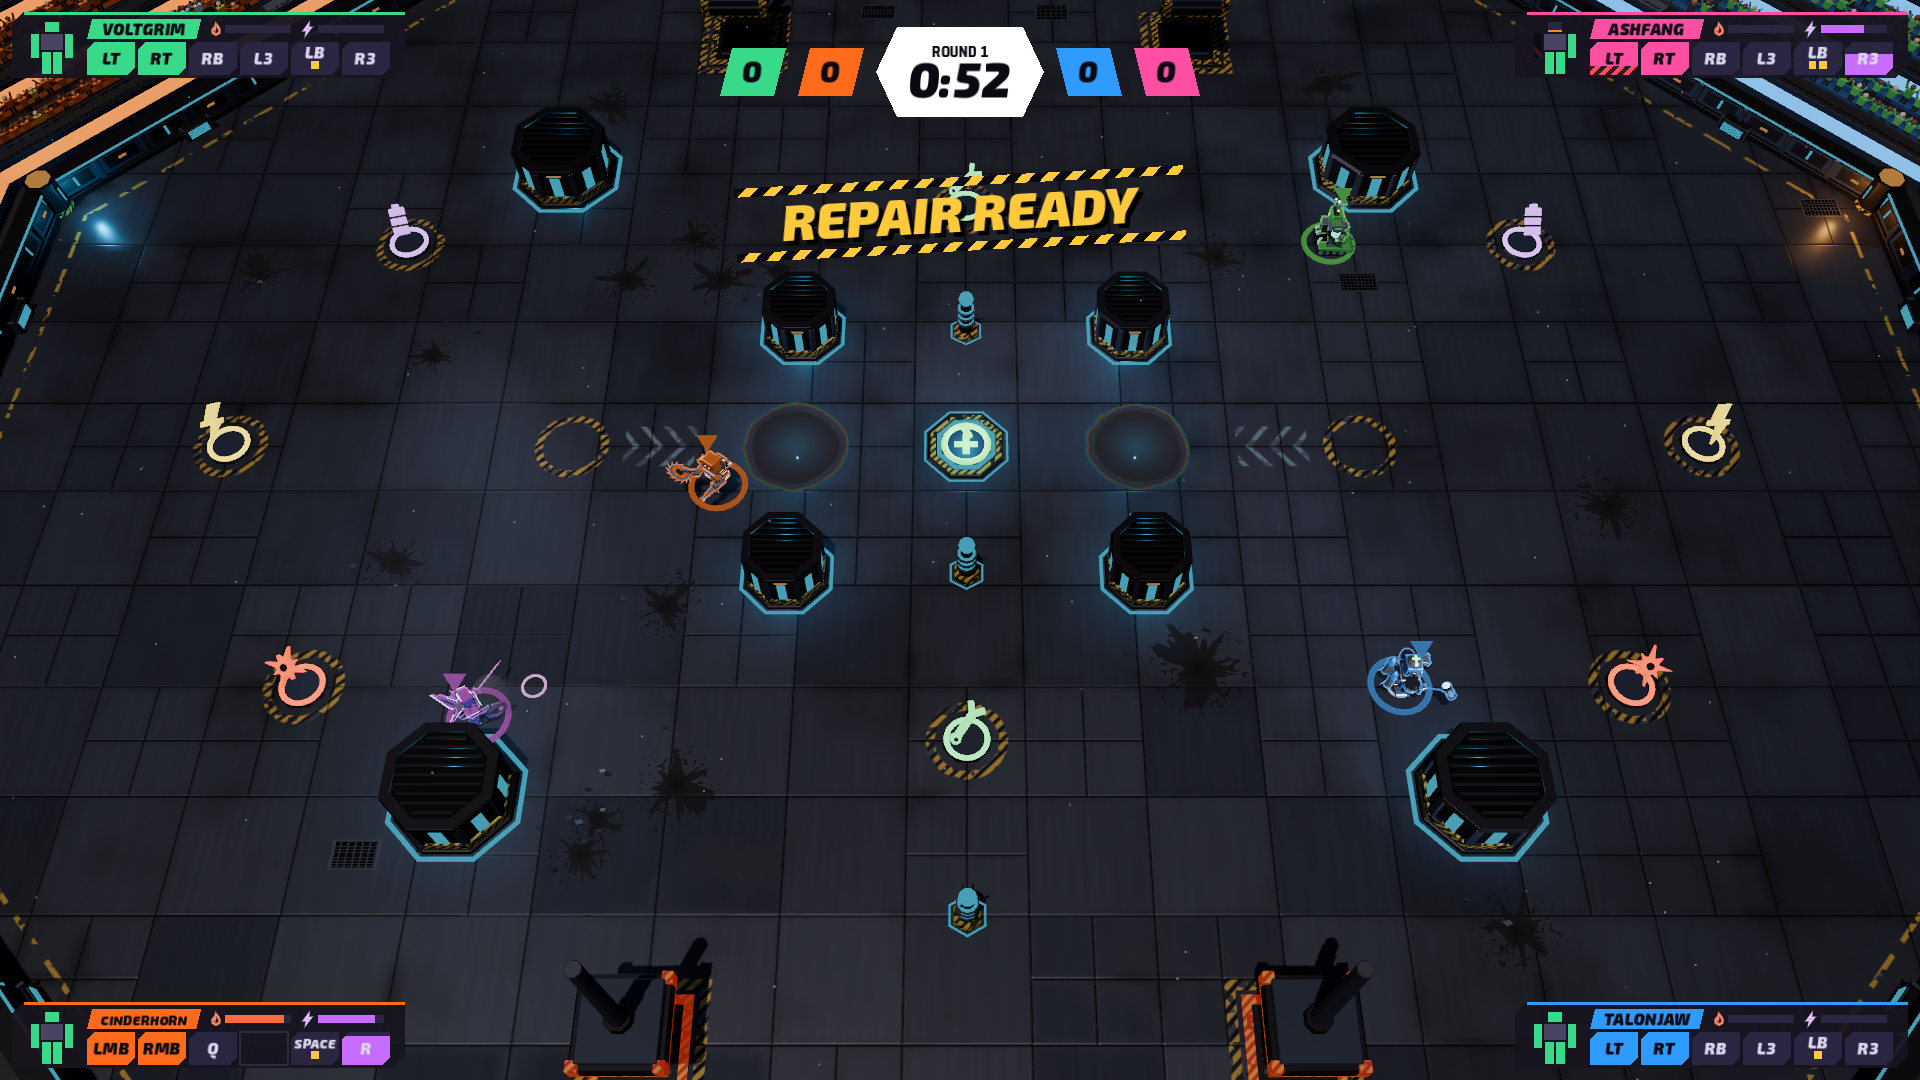
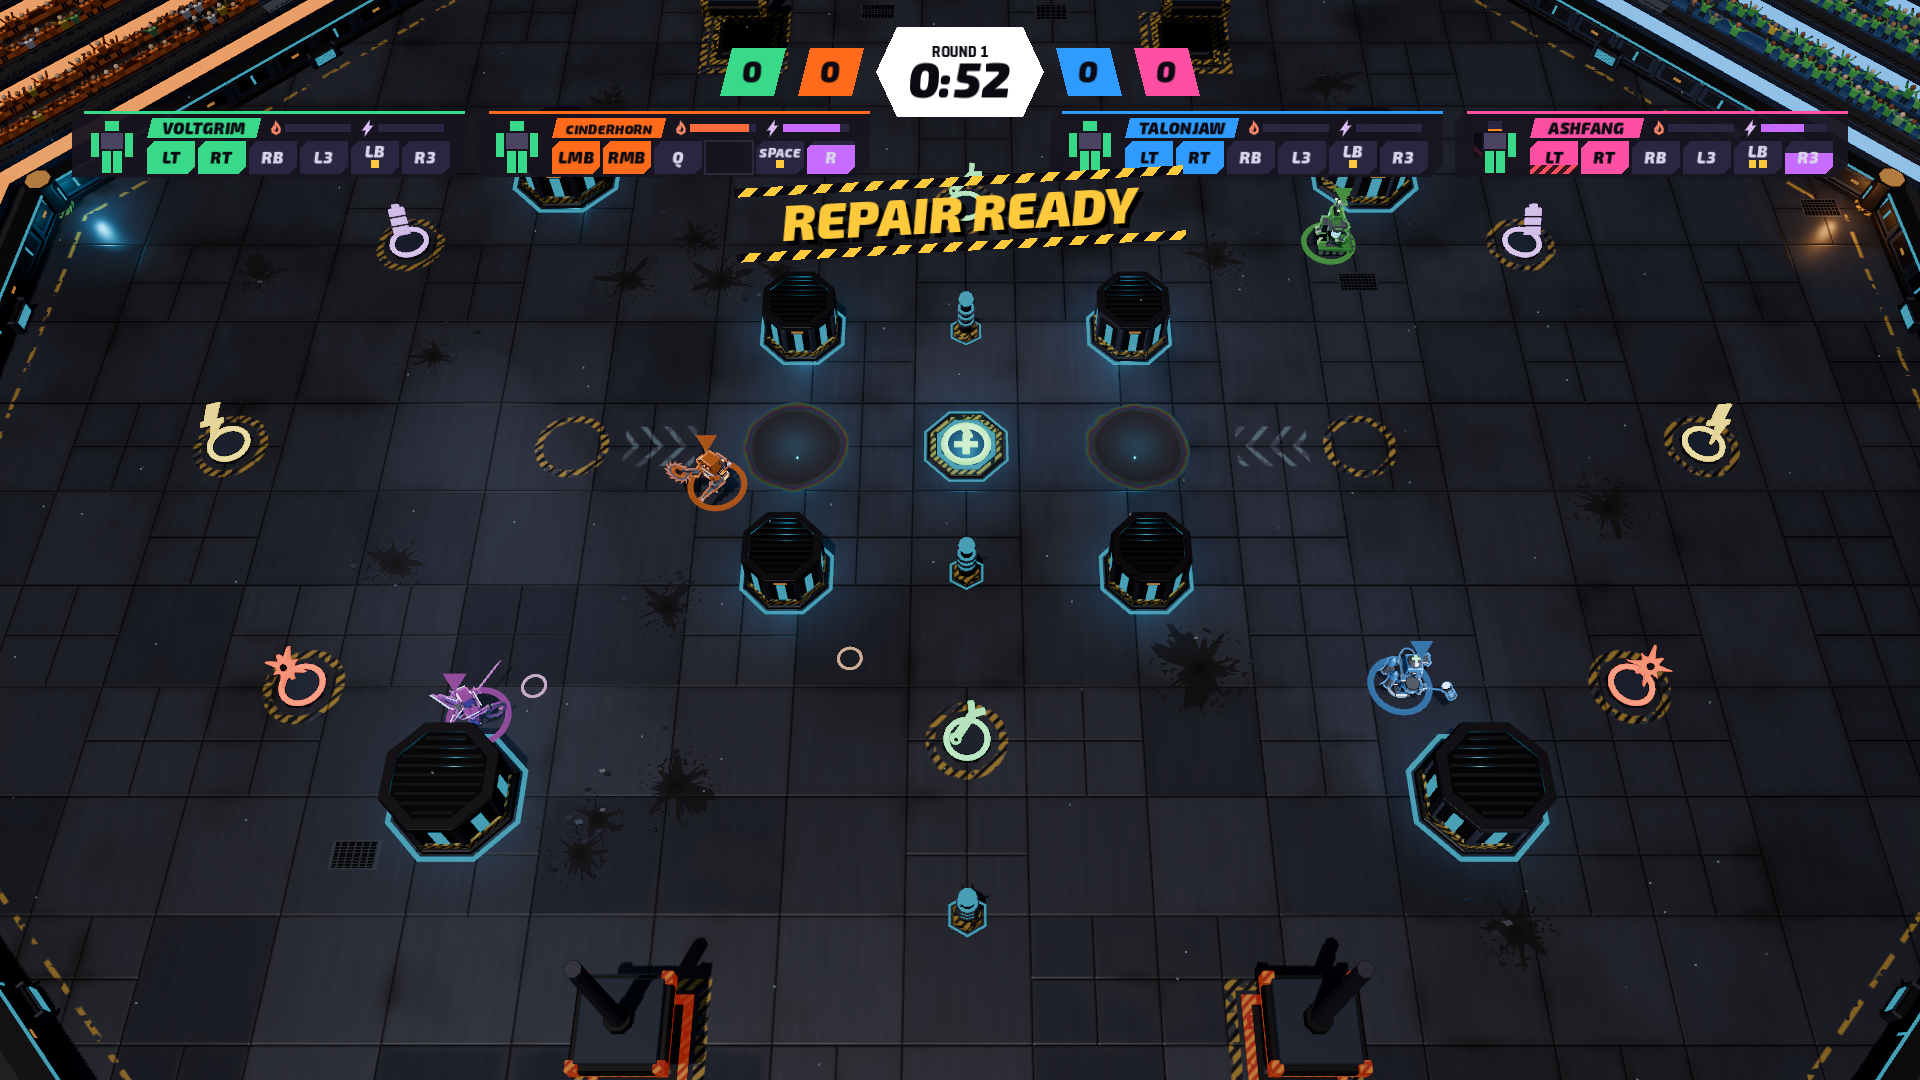
docs(hud): top-band strip notes and 1v1, FFA, 2v2 after screenshots
Story: hud-compact

diff --git a/CLAUDE.md b/CLAUDE.md
@@ -368,10 +368,12 @@ $P = "$R\godot"
   `production/qa/evidence/duel-*-2026-10-31.png`.
 - **Arcade UI, duel part** (Victor 2026-10-30, design "Arcade"; `look.gd` `ARCADE` is the one palette, siege
   and garage restyle on top of it). `hud.gd`: one slim strip per mech, always, whatever the format or the number of players (`strip`, 262×44
-  in the 1280×720 canvas; `strip_rects` puts them in the four screen corners along the top and bottom edges,
-  Victor 2026-10-31: "the hud is too big", then "always use the slim HUD, no matter how many players"): mini
+  in the 1280×720 canvas; `strip_rects` puts them in one row in the top band, y 74, right under the name banners or
+  score chips, a team's strips on its side of the clock: even teams left, odd right, so a 2v2 groups by team and
+  nothing sits at the bottom; Victor 2026-10-31: "the hud is too big", "always use the slim HUD, no matter how many
+  players", "they should be next to the name"): mini
   health-bar robot where every part is a bar (`part_block`: green > 75%, yellow, orange, red, black hatch =
-  destroyed), name tag, heat and R meters, the six `slot`s from `slot` / `icon_lines` (gun or blade by weapon kind,
+  destroyed), name tag (only with 3-4 mechs: the 1v1 banner already has it), heat and R meters, the six `slot`s from `slot` / `icon_lines` (gun or blade by weapon kind,
   shield, E skill, dash pips, R surge fill; a cooldown is a fill that rises (`cd_peak`), a jammed arm a red bottom
   bar). The big `side_panel` (176×208) is now Core Siege only. A human's slots print its own device's keys (`cap(seat, key)`: keyboard names,
   or pad names when `main.aims[seat].on_pad`), a bot's show icons. K.O.'d ones faded. `top_bar` (skewed team tags + hex
